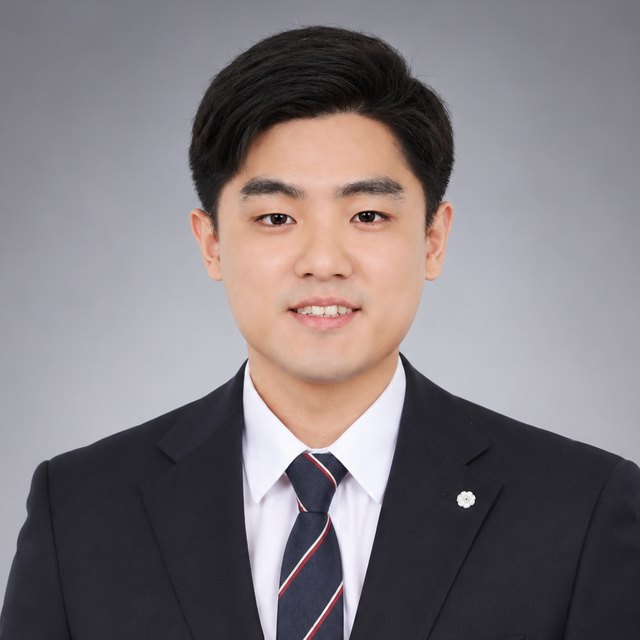
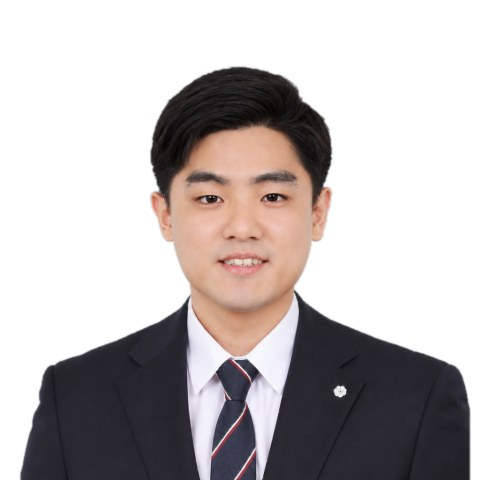
교회 소개: 섬기는 사람들 배치 정렬 수정, 임도형 사진 흰 배경으로 통일, 사역 표기 '청년부 담당'
Claude-Session: https://claude.ai/code/session_0148xjk1JccxeZL8x826f7Qe

diff --git a/about.html b/about.html
@@ -580,14 +580,13 @@ a:focus-visible,button:focus-visible{outline:2px solid #1F7AB8;outline-offset:2p
 </div>
 </div>
 <div class="pastor">
-<img src="assets/home/limdohyung.jpg?v=2" alt="전도사 임도형" class="pastor-photo" loading="lazy">
+<img src="assets/home/limdohyung.jpg?v=3" alt="전도사 임도형" class="pastor-photo" loading="lazy">
 <div class="pastor-body">
 <span class="pastor-role">전도사 · MINISTER</span>
 <h3 class="pastor-name">임도형 <small>전도사</small></h3>
 <div class="pastor-info">
 <div><b>학력</b><span>Epic Bible College &amp; Graduate School 졸업 · 침례신학대학원 신학과 졸업</span></div>
-<div><b>사역</b><span>은혜교회 청년부 담당</span></div>
-</div>
+<div><b>사역</b><span>청년부 담당</span></div>
 </div>
 </div>
 </div>
